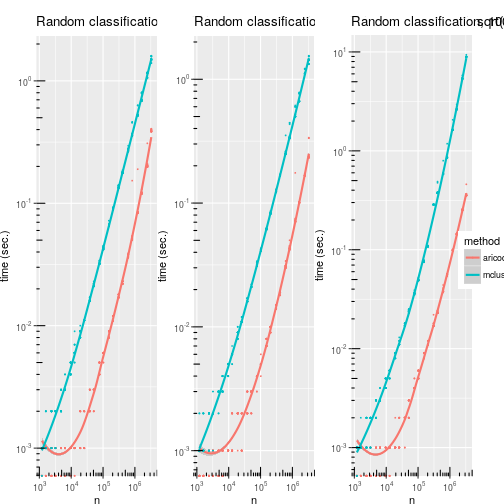
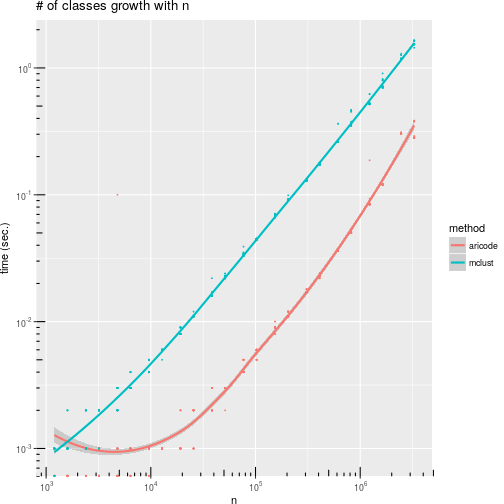
added simu for Readme

diff --git a/Readme.md b/Readme.md
@@ -34,6 +34,11 @@ The functions included in aricode are:
 
 ## Timings
 
+Here are some timings to compare the cost of computing the adjusted Rand Index with **aricode** or with the commonly used function `adjustedRandIndex` of the *mclust* package : the cost of the latter can be prohibitivefor large vectors: 
 
-![plot of chunk timings_plot](figure/timings_plot-1.png)
+
+
+
+
+![plot of chunk timings_plot](figure/timings_plot-1.png)![plot of chunk timings_plot](figure/timings_plot-2.png)![plot of chunk timings_plot](figure/timings_plot-3.png)
 
